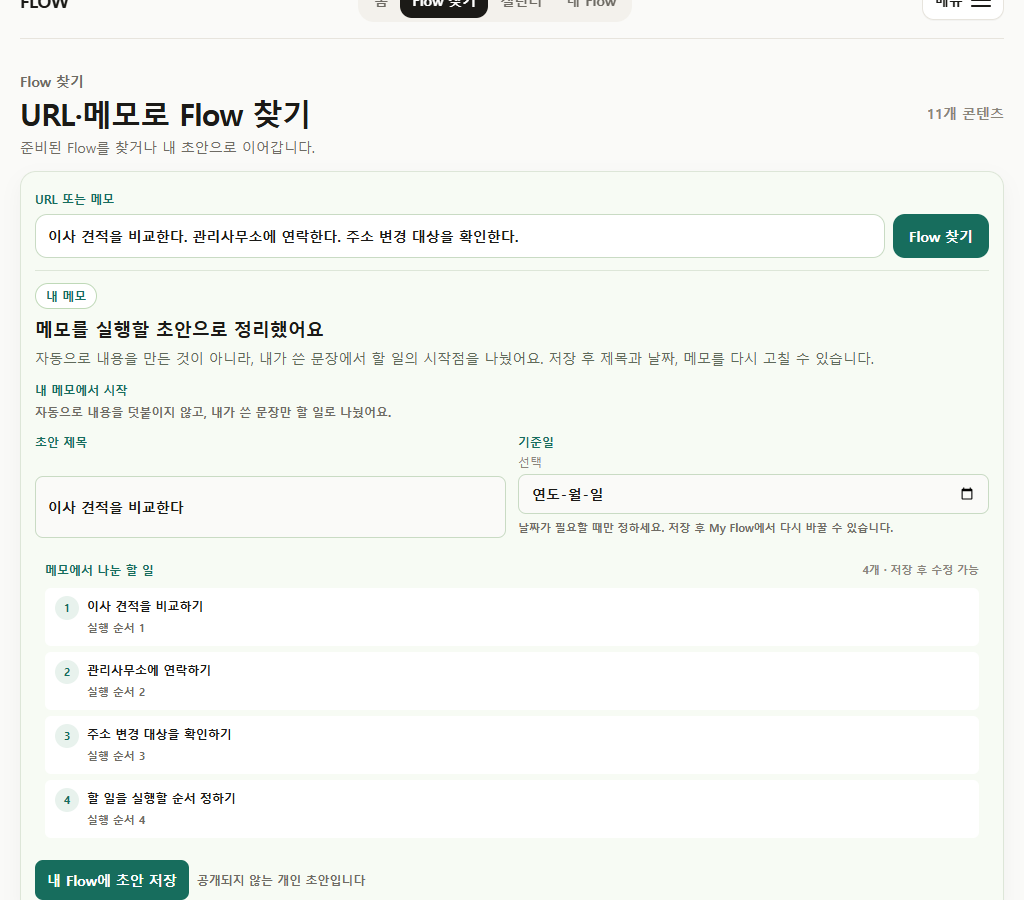
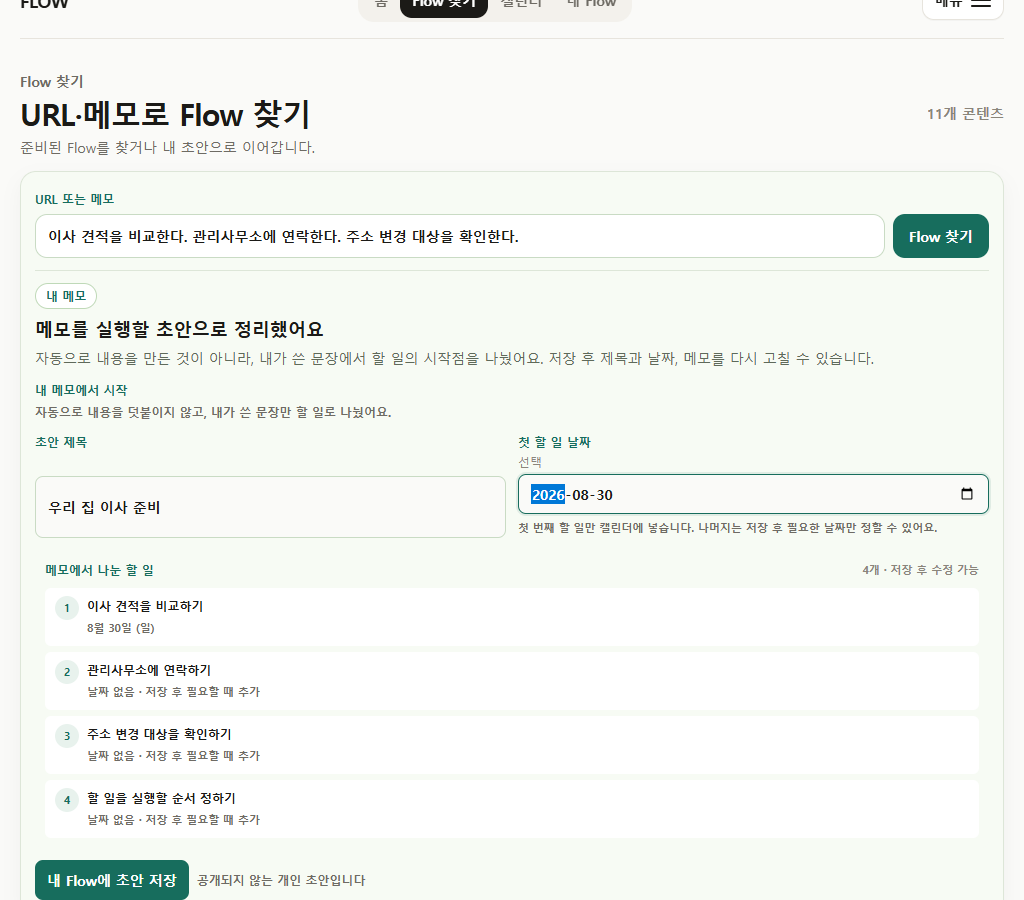
fix: keep memo draft dates explicit

diff --git a/components/flow/AppClient.tsx b/components/flow/AppClient.tsx
@@ -1240,27 +1240,35 @@ function createDraftFlowId(): string {
   return `flow-${Date.now()}-${Math.random().toString(36).slice(2, 8)}`;
 }
 
+function isPersonalMemoDraftBundle(bundle: FlowBundle): boolean {
+  return bundle.flow.status === 'draft' && bundle.flow.slug.startsWith('url-draft-') && bundle.flow.source_title === '내 메모';
+}
+
 function createPersonalDraftFlowPackage(source: PersonalDraftFlowSource, input: UrlFirstDraftFlowInput): UrlFirstDraftFlowPackage {
   const now = new Date().toISOString();
   const id = createDraftFlowId();
   const slug = `url-draft-${Date.now()}-${Math.random().toString(36).slice(2, 7)}`;
   const sectionId = `${id}-draft-section`;
+  const sectionTitle = source.kind === 'memo' ? '메모에서 나눈 할 일' : '손볼 초안 항목';
   const title = normalizeDraftText(input.flowTitle, source.defaultTitle);
   const anchor = isIsoDateString(input.anchorDate) ? input.anchorDate : undefined;
   const suggestions = (input.items.length > 0 ? input.items : source.suggestions).slice(0, 7);
-  const items = suggestions.map<FlowItem>((suggestion, index) => ({
-    id: `${id}-draft-item-${index + 1}`,
-    flow_id: id,
-    section_id: sectionId,
-    title: normalizeDraftText(suggestion.title, `${title} 할 일 ${index + 1}`),
-    ...(suggestion.memo.trim() ? { description: suggestion.memo.trim() } : {}),
-    type: anchor ? 'calendar' : 'todo',
-    day_offset: suggestion.dayOffset,
-    duration_days: 1,
-    source_type: source.kind === 'memo' ? 'creator_experience' : 'reference',
-    risk_level: 'low',
-    order: index,
-  }));
+  const items = suggestions.map<FlowItem>((suggestion, index) => {
+    const dayOffset = source.kind === 'memo' ? (index === 0 ? 0 : undefined) : suggestion.dayOffset;
+    return {
+      id: `${id}-draft-item-${index + 1}`,
+      flow_id: id,
+      section_id: sectionId,
+      title: normalizeDraftText(suggestion.title, `${title} 할 일 ${index + 1}`),
+      ...(suggestion.memo.trim() ? { description: suggestion.memo.trim() } : {}),
+      type: anchor && dayOffset !== undefined ? 'calendar' : 'todo',
+      ...(dayOffset !== undefined ? { day_offset: dayOffset } : {}),
+      duration_days: 1,
+      source_type: source.kind === 'memo' ? 'creator_experience' : 'reference',
+      risk_level: 'low',
+      order: index,
+    };
+  });
 
   return {
     bundle: {
@@ -1286,7 +1294,7 @@ function createPersonalDraftFlowPackage(source: PersonalDraftFlowSource, input: 
         usage_count: 0,
         copy_count: 0,
         tags: source.kind === 'memo' ? ['내 초안', '내 메모'] : ['내 초안'],
-        raw_text: `# ${title}\n\n## 손볼 초안 항목\n${items.map((item) => `- ${item.title}${item.description ? `\n  메모: ${item.description}` : ''}`).join('\n')}${source.kind === 'memo' ? `\n\n## 처음 붙여넣은 메모\n${source.memo.trim()}` : ''}`,
+        raw_text: `# ${title}\n\n## ${sectionTitle}\n${items.map((item) => `- ${item.title}${item.description ? `\n  메모: ${item.description}` : ''}`).join('\n')}${source.kind === 'memo' ? `\n\n## 처음 붙여넣은 메모\n${source.memo.trim()}` : ''}`,
         created_at: now,
         updated_at: now,
       },
@@ -1294,7 +1302,7 @@ function createPersonalDraftFlowPackage(source: PersonalDraftFlowSource, input: 
         {
           id: sectionId,
           flow_id: id,
-          title: '손볼 초안 항목',
+          title: sectionTitle,
           order: 0,
         },
       ],
@@ -1476,17 +1484,17 @@ function FlowMemoDraftPanel({
         />
       </label>
       <label className="grid gap-1 text-xs font-semibold text-[#176D5D]">
-        기준일 <span className="font-medium text-[#8A857B]">선택</span>
+        첫 할 일 날짜 <span className="font-medium text-[#8A857B]">선택</span>
         <input
           data-testid="flow-memo-draft-anchor-date"
-          aria-label="메모 초안 기준일"
+          aria-label="메모 초안 첫 할 일 날짜"
           className="min-h-10 rounded-lg border border-[#C9DBC4] bg-[#FAFAF8] px-3 py-2 text-sm font-semibold text-[#1B1A17] outline-none focus:border-[#176D5D] focus:ring-2 focus:ring-[#176D5D]/10"
           type="date"
           value={draftAnchorDate}
           onChange={(event) => setDraftAnchorDate(event.target.value)}
         />
         <span className="break-keep text-[11px] font-semibold leading-5 text-[#6E6B64]">
-          날짜가 필요할 때만 정하세요. 저장 후 My Flow에서 다시 바꿀 수 있습니다.
+          첫 번째 할 일만 캘린더에 넣습니다. 나머지는 저장 후 필요한 날짜만 정할 수 있어요.
         </span>
       </label>
       <div data-testid="flow-memo-draft-suggestion-list" className="grid gap-2 rounded-lg bg-[#F7FBF4] p-2.5 md:col-span-2">
@@ -1506,8 +1514,10 @@ function FlowMemoDraftPanel({
                 <p className="break-keep text-xs font-semibold leading-5 text-[#1B1A17]">{item.title}</p>
                 <p className="mt-0.5 break-keep text-[11px] font-semibold leading-5 text-[#6E6B64]">
                   {draftAnchorDate
-                    ? formatKoreanShortDate(addDays(new Date(draftAnchorDate), item.dayOffset), { includeWeekday: true })
-                    : `실행 순서 ${index + 1}`}
+                    ? index === 0
+                      ? formatKoreanShortDate(new Date(draftAnchorDate), { includeWeekday: true })
+                      : '날짜 없음 · 저장 후 필요할 때 추가'
+                    : '날짜 미정'}
                 </p>
               </div>
             </li>
@@ -3296,6 +3306,26 @@ function isMyFlowPersonalSavedCopy(flow: MySavedFlow): boolean {
 
 function isUrlFirstDraftSavedFlow(flow: MySavedFlow): boolean {
   return flow.progress.slug.startsWith('url-draft-') || flow.bundle.flow.slug.startsWith('url-draft-');
+}
+
+function isMemoDraftSavedFlow(flow: MySavedFlow): boolean {
+  return isUrlFirstDraftSavedFlow(flow) && isPersonalMemoDraftBundle(flow.bundle);
+}
+
+function getMyFlowSettingsDateAnchorCopy(flow: MySavedFlow) {
+  if (isMemoDraftSavedFlow(flow)) {
+    return {
+      label: '첫 할 일 날짜',
+      editLabel: '첫 할 일 날짜 바꾸기',
+      help: '첫 번째 할 일만 이 날짜에 맞춰집니다. 다른 할 일은 따로 정한 날짜를 유지합니다.',
+      itemOverrideLabel: '이 할 일 날짜',
+      distinction: '첫 할 일 날짜는 첫 번째 할 일만 정하고, 이 할 일 날짜는 선택한 할 일만 바꿉니다.',
+    };
+  }
+  if (isUrlFirstDraftSavedFlow(flow) && !flow.savedMap?.personalCopy) return getSourceBackedFlowMapDateAnchorCopy();
+  return getSourceBackedFlowMapDateAnchorCopy(
+    flow.savedMap?.mapId ? buildSourceBackedFlowMapPublishPackage(flow.savedMap.mapId) : getSourceBackedMyFlowMapForBundle(flow.bundle),
+  );
 }
 
 function canEditMyFlowSavedFlowSettings(flow: MySavedFlow): boolean {
@@ -8449,13 +8479,7 @@ export function MyFlows({ initialView = 'today', surface = 'my' }: MyFlowsProps 
     const sourceLabel = getMyFlowSourceLinkLabel(flow);
     const personalSavedCopy = isMyFlowPersonalSavedCopy(flow);
     const settingsEditable = canEditMyFlowSavedFlowSettings(flow);
-    const settingsDateAnchorCopy = settingsEditable
-      ? isUrlFirstDraftSavedFlow(flow) && !flow.savedMap?.personalCopy
-        ? getSourceBackedFlowMapDateAnchorCopy()
-        : getSourceBackedFlowMapDateAnchorCopy(
-            flow.savedMap?.mapId ? buildSourceBackedFlowMapPublishPackage(flow.savedMap.mapId) : getSourceBackedMyFlowMapForBundle(flow.bundle),
-          )
-      : null;
+    const settingsDateAnchorCopy = settingsEditable ? getMyFlowSettingsDateAnchorCopy(flow) : null;
     const personalCopySettingsLabel = settingsDateAnchorCopy ? `${settingsDateAnchorCopy.label}·이름 바꾸기` : '설정 조정';
     const progressSummary = getMyFlowFlowProgressLabel(flow);
     const structureLabel = flow.savedMap
@@ -8637,13 +8661,7 @@ export function MyFlows({ initialView = 'today', surface = 'my' }: MyFlowsProps 
     const savedMapTitle = flow.savedMap ? toUserFacingMapTitle(flow.savedMap.title) : '';
     const personalSavedCopy = isMyFlowPersonalSavedCopy(flow);
     const settingsEditable = canEditMyFlowSavedFlowSettings(flow);
-    const settingsDateAnchorCopy = settingsEditable
-      ? isUrlFirstDraftSavedFlow(flow) && !flow.savedMap?.personalCopy
-        ? getSourceBackedFlowMapDateAnchorCopy()
-        : getSourceBackedFlowMapDateAnchorCopy(
-            flow.savedMap?.mapId ? buildSourceBackedFlowMapPublishPackage(flow.savedMap.mapId) : getSourceBackedMyFlowMapForBundle(flow.bundle),
-          )
-      : null;
+    const settingsDateAnchorCopy = settingsEditable ? getMyFlowSettingsDateAnchorCopy(flow) : null;
     const personalCopySettingsLabel = settingsDateAnchorCopy ? `${settingsDateAnchorCopy.label}·이름 바꾸기` : '설정 조정';
     const nextRow = getSavedFlowNextRow(flow);
     const progressSummary = getMyFlowFlowProgressLabel(flow);
@@ -12670,6 +12688,7 @@ function getPublicViews(bundle: FlowBundle, hasScheduleAnchor = false): { id: Pu
 
 function getScheduleEntries(bundle: FlowBundle, anchor: string): ScheduleEntry[] {
   if (!anchor && bundle.flow.structure_type !== 'checklist') return [];
+  const personalMemoDraft = isPersonalMemoDraftBundle(bundle);
   if (bundle.flow.content_type === 'meal_plan') {
     return (bundle.mealSlots ?? []).map((slot) => {
       const start = addDays(new Date(anchor), slot.day_offset);
@@ -12696,7 +12715,7 @@ function getScheduleEntries(bundle: FlowBundle, anchor: string): ScheduleEntry[]
         id: item.id,
         title: item.title,
         section: getSectionTitleForBundle(bundle, item.section_id),
-        timing: timingLabel(item.day_offset, item.duration_days),
+        timing: personalMemoDraft && item.day_offset === 0 ? '첫 할 일 날짜' : timingLabel(item.day_offset, item.duration_days),
         startDate: formatDate(start),
         endDate: end ? formatDate(end) : undefined,
         durationDays: item.duration_days,

diff --git a/docs/content-audit/2026-07-12-flowme-url-memo-entry-evidence/review.html b/docs/content-audit/2026-07-12-flowme-url-memo-entry-evidence/review.html
@@ -30,10 +30,12 @@
   <header>
     <div class="eyebrow">2026-07-12 · current production build</div>
     <h1>URL과 메모가 같은 첫 진입에서 실제로 작동하는가</h1>
-    <p>오래된 리뷰 화면을 현재 근거로 사용하지 않고, 현행 <code>/</code> → <code>/flows</code> → <code>/my</code> 경로를 390px와 1024px에서 다시 캡처했다.</p>
+    <p>오래된 리뷰 화면을 현재 근거로 사용하지 않고, 현행 <code>/</code> → <code>/flows</code> → <code>/my</code> → <code>/calendar</code> 경로를 390px와 1024px에서 다시 캡처했다.</p>
     <div class="metrics">
       <div class="metric"><strong>2/2</strong>viewport entry visible</div>
       <div class="metric"><strong>2/2</strong>memo draft saved</div>
+      <div class="metric"><strong>1</strong>scheduled item per memo</div>
+      <div class="metric"><strong>0</strong>invented sequential dates</div>
       <div class="metric"><strong>0</strong>internal term hits</div>
       <div class="metric"><strong>0</strong>live AI implications</div>
       <div class="metric"><strong>0</strong>horizontal overflow</div>
@@ -42,7 +44,7 @@
 
   <section>
     <h2>판단</h2>
-    <p class="decision">홈의 “URL이나 메모” 약속과 `/flows` 런타임이 일치한다. URL은 기존 canonical lookup을 유지하고, 메모는 사용자가 쓴 문장만 나눈 개인 초안으로 저장된다. 저장 후에는 별도 제품 표면을 만들지 않고 My Flow의 기존 편집·실행 경로로 합류한다.</p>
+    <p class="decision">홈의 “URL이나 메모” 약속과 `/flows` 런타임이 일치한다. URL은 기존 canonical lookup을 유지하고, 메모는 사용자가 쓴 문장만 나눈 개인 초안으로 저장된다. 선택 날짜는 첫 항목에만 적용하고 나머지는 날짜 없는 할 일로 남겨, 사용자가 쓰지 않은 연속 일정을 만들지 않는다.</p>
   </section>
 
   <section>
@@ -50,8 +52,9 @@
     <div class="gallery">
       <figure><img src="screenshots/01-home-mobile.png" alt="홈 모바일"><figcaption>홈: URL·메모 진입이 첫 행동으로 보인다.</figcaption></figure>
       <figure><img src="screenshots/02-flows-entry-mobile.png" alt="Flow 찾기 입력 모바일"><figcaption>/flows: URL 또는 메모 한 필드와 처리 차이를 짧게 설명한다.</figcaption></figure>
-      <figure><img src="screenshots/03-memo-draft-mobile.png" alt="메모 초안 모바일"><figcaption>메모 초안: 제목, 선택 기준일, 사용자가 쓴 문장에서 나눈 할 일을 확인한다.</figcaption></figure>
+      <figure><img src="screenshots/03-memo-draft-mobile.png" alt="메모 초안 모바일"><figcaption>메모 초안: 첫 할 일 날짜만 선택하고 나머지는 날짜 없이 유지한다.</figcaption></figure>
       <figure><img src="screenshots/04-memo-my-flow-mobile.png" alt="메모 초안 My Flow 모바일"><figcaption>My Flow: 저장한 메모 초안이 다음 할 일로 착지한다.</figcaption></figure>
+      <figure><img src="screenshots/06-memo-calendar-mobile.png" alt="메모 초안 Calendar 모바일"><figcaption>Calendar: 첫 항목만 선택일에 보이고 D-Day 표현을 쓰지 않는다.</figcaption></figure>
       <figure><img src="screenshots/05-url-hit-mobile.png" alt="URL hit 모바일"><figcaption>기존 URL hit canonical lookup과 저장 전 보기는 유지된다.</figcaption></figure>
     </div>
   </section>
@@ -61,8 +64,9 @@
     <div class="gallery">
       <figure><img src="screenshots/01-home-wide.png" alt="홈 wide"><figcaption>홈 wide.</figcaption></figure>
       <figure><img src="screenshots/02-flows-entry-wide.png" alt="Flow 찾기 입력 wide"><figcaption>통합 입력은 above-fold에 유지된다.</figcaption></figure>
-      <figure><img src="screenshots/03-memo-draft-wide.png" alt="메모 초안 wide"><figcaption>제목과 기준일은 두 열, 할 일은 전체 폭으로 읽힌다.</figcaption></figure>
+      <figure><img src="screenshots/03-memo-draft-wide.png" alt="메모 초안 wide"><figcaption>제목과 첫 할 일 날짜는 두 열, 전체 할 일은 날짜 유무를 구분해 읽힌다.</figcaption></figure>
       <figure><img src="screenshots/04-memo-my-flow-wide.png" alt="메모 초안 My Flow wide"><figcaption>wide My Flow에서도 같은 draft가 실행 목록에 합류한다.</figcaption></figure>
+      <figure><img src="screenshots/06-memo-calendar-wide.png" alt="메모 초안 Calendar wide"><figcaption>wide Calendar도 첫 항목만 표시하고 나머지는 My Flow에 남긴다.</figcaption></figure>
     </div>
   </section>
 </main>

diff --git a/tests/e2e/flow-mvp.spec.ts b/tests/e2e/flow-mvp.spec.ts
@@ -449,7 +449,10 @@ test('flow finding turns a plain memo into an editable private draft and lands i
   await expect(editor).toBeVisible();
   await expect(editor.getByTestId('flow-memo-draft-item')).toHaveCount(4);
   await editor.getByLabel('메모 초안 제목').fill('우리 집 이사 준비');
-  await editor.getByLabel('메모 초안 기준일').fill('2026-08-30');
+  await editor.getByLabel('메모 초안 첫 할 일 날짜').fill('2026-08-30');
+  await expect(editor).toContainText('첫 번째 할 일만 캘린더에 넣습니다');
+  await expect(editor.getByTestId('flow-memo-draft-item').first()).toContainText('8월 30일');
+  await expect(editor.getByTestId('flow-memo-draft-item').nth(1)).toContainText('날짜 없음');
   await editor.getByRole('button', { name: '내 Flow에 초안 저장' }).click();
 
   await page.waitForURL(/\/my(?:\?|$)/);
@@ -468,8 +471,26 @@ test('flow finding turns a plain memo into an editable private draft and lands i
   expect(storedDraft?.flow?.source_url).toBeUndefined();
   expect(storedDraft?.flow?.raw_text).toContain('처음 붙여넣은 메모');
   expect(storedDraft?.flow?.raw_text).toContain('관리사무소에 연락한다');
+  expect(storedDraft?.items?.[0]).toMatchObject({ type: 'calendar', day_offset: 0 });
+  expect(
+    storedDraft?.items
+      ?.slice(1)
+      .every((item: { type?: string; day_offset?: number }) => item.type === 'todo' && item.day_offset === undefined),
+  ).toBe(true);
   await expect(page.getByText('우리 집 이사 준비').first()).toBeVisible();
+  await expect(page.locator('body')).not.toContainText('기준 D-Day');
   await expectNoHorizontalOverflow(page);
+
+  await page.getByTestId('my-flow-view-flow').click();
+  const memoDraftFlow = page.locator('[data-testid="my-flow-mobile-structure-row"][data-flow-slug^="url-draft-"]');
+  await expect(memoDraftFlow.getByTestId('my-flow-personal-copy-settings-open')).toContainText('첫 할 일 날짜');
+
+  await page.goto('/calendar');
+  await expect(page.getByText('이사 견적을 비교하기').first()).toBeVisible();
+  await expect(page.getByText('관리사무소에 연락하기')).toHaveCount(0);
+  await expect(page.getByText('첫 할 일 날짜').first()).toBeVisible();
+  await expect(page.getByText('메모에서 나눈 할 일').first()).toBeVisible();
+  await expect(page.locator('body')).not.toContainText('기준 D-Day');
 });
 
 test('flow finding URL lookup saves production candidates without AI generation', async ({ page }) => {

diff --git a/lib/flow/export.test.ts b/lib/flow/export.test.ts
@@ -2,6 +2,58 @@ import assert from 'node:assert/strict';
 import test from 'node:test';
 import { buildCalendarIcs, buildIcsCalendar, buildText, buildWorkbookSheets, buildXlsxBuffer } from './export';
 import { seedBundles } from './seed-flows';
+import type { FlowBundle } from './types';
+
+test('personal memo draft calendar export includes only the explicitly dated first task', () => {
+  const bundle: FlowBundle = {
+    flow: {
+      id: 'memo-draft-flow',
+      slug: 'url-draft-memo-test',
+      title: '우리 집 이사 준비',
+      category: '내 초안',
+      structure_type: 'checklist',
+      content_type: 'default',
+      anchor_type: 'start_date',
+      status: 'draft',
+      source_title: '내 메모',
+      source_status: 'preview',
+      created_at: '2026-07-12T00:00:00.000Z',
+      updated_at: '2026-07-12T00:00:00.000Z',
+    },
+    sections: [{ id: 'memo-section', flow_id: 'memo-draft-flow', title: '메모에서 나눈 할 일', order: 0 }],
+    items: [
+      {
+        id: 'memo-item-1',
+        flow_id: 'memo-draft-flow',
+        section_id: 'memo-section',
+        title: '이사 견적을 비교하기',
+        type: 'calendar',
+        day_offset: 0,
+        duration_days: 1,
+        order: 0,
+      },
+      {
+        id: 'memo-item-2',
+        flow_id: 'memo-draft-flow',
+        section_id: 'memo-section',
+        title: '관리사무소에 연락하기',
+        type: 'todo',
+        duration_days: 1,
+        order: 1,
+      },
+    ],
+    warnings: [],
+  };
+
+  const calendar = buildIcsCalendar(bundle, {}, '2026-08-30');
+  const memo = buildText(bundle, {}, '2026-08-30');
+
+  assert.equal((calendar.match(/BEGIN:VEVENT/g) ?? []).length, 1);
+  assert.match(calendar, /이사 견적을 비교하기/);
+  assert.doesNotMatch(calendar, /관리사무소에 연락하기/);
+  assert.match(memo, /이사 견적을 비교하기/);
+  assert.match(memo, /관리사무소에 연락하기/);
+});
 
 test('timeline text export includes calculated dates when anchor exists', () => {
   const moving = seedBundles.find((bundle) => bundle.flow.slug === 'moving-d30-basic');

diff --git a/docs/content-audit/2026-07-12-flowme-url-memo-entry-evidence/audit.md b/docs/content-audit/2026-07-12-flowme-url-memo-entry-evidence/audit.md
@@ -10,8 +10,10 @@
 2. 올바른 URL은 기존 canonical lookup을 그대로 사용한다.
 3. URL이 아닌 텍스트는 개인 메모 초안으로 분류한다.
 4. 메모 초안은 사용자가 쓴 문장만 할 일로 나눈다. 외부 사실이나 조언을 덧붙이지 않는다.
-5. 기준일은 선택값으로 두고, 저장 후 My Flow에서 다시 수정할 수 있게 기존 draft edit path를 재사용한다.
-6. 메모 원문은 `source_title: 내 메모`, `source_url` 없음으로 보존해 URL/source-backed 원본과 구분한다.
+5. 일반 메모에는 전체 Flow 기준일을 추정하지 않는다. 사용자가 선택한 날짜는 `첫 할 일 날짜`로만 사용한다.
+6. 첫 항목만 Calendar에 배치하고 나머지는 날짜 없는 할 일로 저장한다. 저장 후 필요한 항목에만 날짜를 추가할 수 있다.
+7. 첫 할 일 날짜는 저장 후 My Flow에서 다시 수정할 수 있게 기존 draft edit path를 재사용한다.
+8. 메모 원문은 `source_title: 내 메모`, `source_url` 없음으로 보존해 URL/source-backed 원본과 구분한다.
 
 ## UI 판단
 
@@ -20,6 +22,7 @@
 - 모바일은 한 열, wide는 제목/기준일 두 열로 배치했다.
 - `이사 견적을 비교한다 정리하기` 같은 기계적 문장을 `이사 견적을 비교하기`로 보정했다.
 - 메모 초안에 `자동으로 내용을 덧붙이지 않고`라는 경계를 노출해 live AI로 오해하지 않게 했다.
+- `기준 D-Day` 대신 `첫 할 일 날짜`를 사용해 일반 메모를 마감형 Flow처럼 오해하지 않게 했다.
 
 ## 데이터 경계
 
@@ -28,15 +31,18 @@
 - 메모 초안은 개인 `draft` bundle이며 공개 Flow가 아니다.
 - 기존 저장/완료/export record 형식과 `url-draft-*` 실행 경로를 재사용한다.
 - 메모 원문은 draft `raw_text`의 `처음 붙여넣은 메모` 영역에 보존한다.
+- 첫 항목만 `day_offset: 0`이고 나머지는 `day_offset` 없는 todo다. Calendar export는 첫 항목만, checklist/memo 계열은 전체 항목을 읽는다.
 
 ## 아웃데이트 콘텐츠 처리
 
 과거 screenshot과 review package는 변경 이력 참고용으로만 사용했다. 현재 서비스 판단에는 runtime indexing policy를 통과한 콘텐츠와 현재 production build만 사용했다. review-gated 직접 `/f` route나 retired content는 이번 사용자 여정의 정상 성공 화면으로 포함하지 않았다.
 
+판정 수치는 [런타임 콘텐츠 재고 분리 evidence](../2026-07-12-flowme-runtime-content-inventory-separation-evidence/README.md)를 재사용했다. 공개 승인된 71개 route를 현행 콘텐츠로 보고, review-gated 86개·archive 20개·공개 중단 구형 Flow Map 8개는 현행 UX 평가와 추천 콘텐츠 표본에서 제외했다. 따라서 과거 문서에 화면이 남아 있어도 현재 production route가 아니면 이번 결론을 바꾸는 근거로 사용하지 않는다.
+
 ## 남은 리스크
 
 - 현재 메모 분해는 규칙 기반이며 복잡한 표, 긴 문단, 시간 표현을 정교하게 해석하지 않는다.
-- 날짜는 자동 추론하지 않고 사용자가 기준일을 선택한다.
+- 날짜는 자동 추론하지 않고 사용자가 첫 할 일 날짜만 선택한다.
 - 메모에서 기존 공개 Flow 추천으로 연결하는 의미 검색은 아직 없다.
 - 메모 초안의 항목별 on/off와 저장 전 문구 편집은 저장 후 My Flow 편집 경로에 남아 있다.
 

diff --git a/docs/content-audit/2026-07-12-flowme-url-memo-entry-evidence/README.md b/docs/content-audit/2026-07-12-flowme-url-memo-entry-evidence/README.md
@@ -11,7 +11,8 @@
 - `/flows` 입력을 `URL 또는 메모` 한 필드로 통합
 - URL은 기존 canonical lookup의 hit / needs_review / miss 흐름 유지
 - 메모는 사용자가 쓴 문장만 규칙으로 나눈 개인 초안 표시
-- 제목과 선택 기준일을 확인한 뒤 My Flow에 저장
+- 제목과 선택 가능한 `첫 할 일 날짜`를 확인한 뒤 My Flow에 저장
+- 첫 항목만 선택 날짜에 배치하고 나머지는 날짜 없는 할 일로 유지
 - 저장한 메모 원문은 개인 draft bundle에 보존
 - 기존 My Flow, Calendar, Studio 초안 선반이 사용하는 `url-draft-*` 저장 경로 재사용
 
@@ -25,12 +26,16 @@
 - horizontal overflow: `0`
 - 원본 메모 보존: `2/2`
 - 390px 첫 추천 카드 시작점: `467px` (`< 480px` 기준 유지)
+- 메모 4개 항목 중 자동 Calendar 배치: `1개`
+- 근거 없이 만든 연속 날짜: `0개`
 
 상세 수치는 [route-evidence.json](./route-evidence.json), 판단 근거는 [audit.md](./audit.md), 화면 비교는 [review.html](./review.html)에서 확인한다.
 
 ## 기준 정책
 
 이 package는 오래된 리뷰 화면이나 review-gated 콘텐츠를 현재 서비스 근거로 사용하지 않는다. 2026-07-12 production build의 `/`, `/flows`, `/my`와 현재 indexable runtime 콘텐츠만 캡처했다.
+
+같은 날의 [런타임 콘텐츠 재고 분리 evidence](../2026-07-12-flowme-runtime-content-inventory-separation-evidence/README.md)를 기준으로 공개 승인된 71개 route만 정상 사용자 성공 시나리오로 취급했다. review-gated 86개, archive 20개, 공개 중단 구형 Flow Map 8개는 변경 이력이나 복구 정책 확인에만 사용하고 현재 UX·콘텐츠 품질 표본에서는 제외했다.
 
 ## 검증
 
@@ -39,3 +44,4 @@
 - `url-first-user-surface.spec.ts` 8개 시나리오
 - production build
 - 390px / 1024px browser capture
+- My Flow 저장 후 Calendar에 첫 항목만 투영되는 E2E
